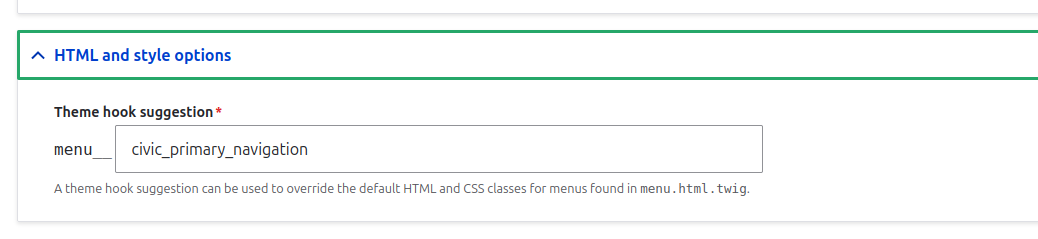
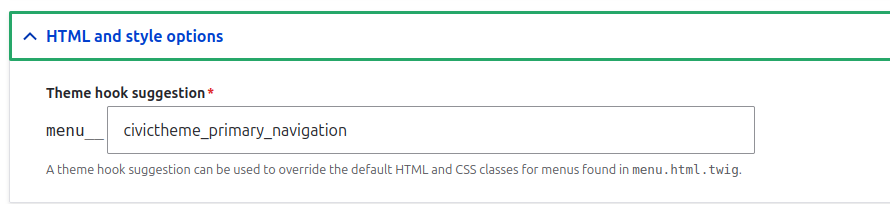
Updated images for menu hooks and added mobile navigation configuration.

diff --git a/development/drupal-theme/menus.md b/development/drupal-theme/menus.md
@@ -24,6 +24,12 @@ The secondary navigation is a menu block placed in the top right of the page.
 For this menu to be themed correctly the menu block must be configured with `menu__civictheme_secondary_navigation` theme hook suggestion in the HTML and style options of the Block configuration form.
 <div data-full-width="true"><figure><img src="../../.gitbook/assets/secondary-navigation-menu-hook.png" alt="HTML and style options - Theme hook suggestion: civictheme_secondary_navigation"><figcaption><p>Secondary Navigation Theme Suggestion Hook Configuration. HTML and style options - Theme hook suggestion: civictheme_secondary_navigation. Click on the image to zoom in.</p></figcaption></figure></div>
 
+## Mobile Navigation
+
+The mobile navigation is a content block type. This block once created is placed is in the Header Middle 3 region.
+
+There is no configuration needed for this block.
+
 ## Side Navigation
 
 The side navigation is a menu block placed in the Side bar top left region of the page.
